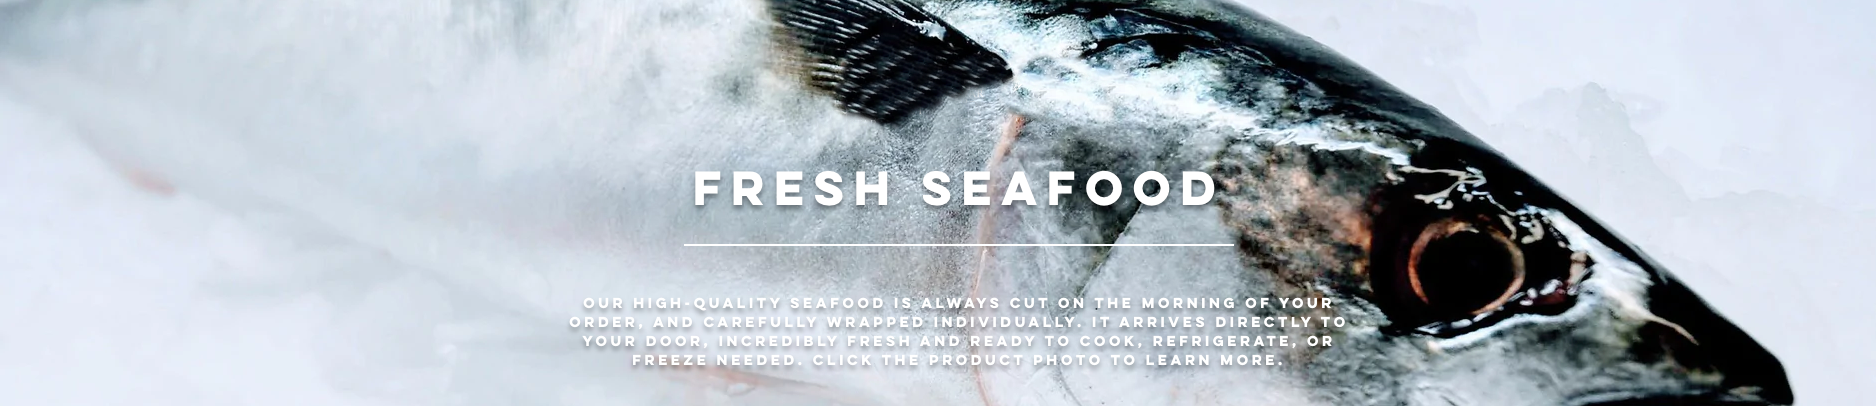
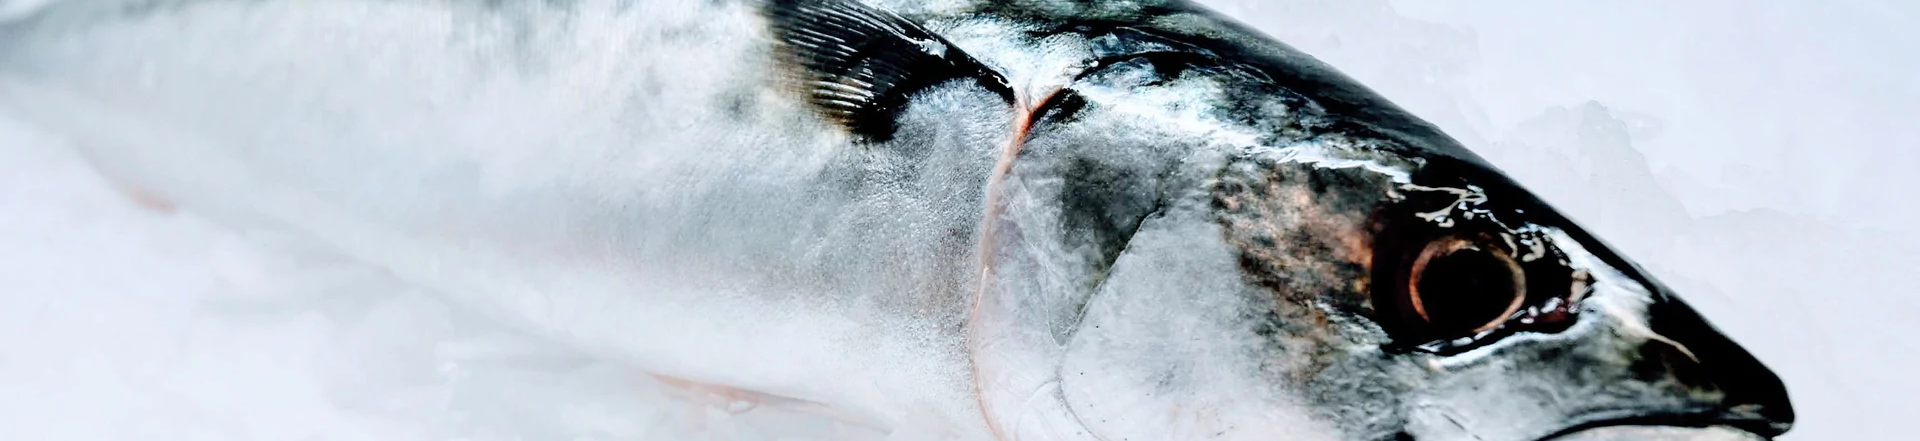
css and bug fixes

diff --git a/react-app/src/components/Products/Products.css b/react-app/src/components/Products/Products.css
@@ -3,9 +3,30 @@
 }
 
 .product-banner {
+    display: flex;
+    align-items: center;
+    justify-content: center;
     width: 100vw;
     height: 40vh;
 }
+
+.category-banner {
+    position: absolute;
+    color: white;
+    font-size: 50px;
+    letter-spacing: 3px;
+    text-shadow: 0px 4px 5px rgb(112, 110, 110);
+    padding-bottom: 10px;
+    border-bottom: 2px solid white;
+}
+
+/* .category-info{
+    display: flex;
+    position: absolute;
+    justify-content: flex-end;
+    align-items: flex-end;
+    z-index: 1;
+} */
 
 .banner-img {
     width: 100%;
@@ -24,13 +45,13 @@
     column-gap: 25px;
 }
 
-.sub-category-header{
+.sub-category-header {
     text-align: center;
     font-size: 30px;
     font-weight: bolder;
     letter-spacing: 5px;
     color: rgb(40, 96, 117);
-    text-shadow: (0 0 0 / 40%) 0px 4px 5px
+    text-shadow: 0px 4px 5px rgb(148, 144, 144);
 }
 
 .product-card {
@@ -50,7 +71,7 @@
     height: 100%;
 }
 
-.product-info{
+.product-info {
     display: flex;
     flex-direction: column;
     gap: 10px;
@@ -65,11 +86,11 @@
 
 .product-card-link {
     text-decoration: none;
-    color:rgb(54, 124, 152);
+    color: rgb(54, 124, 152);
 }
 
 .product-card-link:hover {
-    color:rgb(14, 56, 135);
+    color: rgb(14, 56, 135);
 }
 
 .info-divider {
@@ -80,25 +101,25 @@
     margin-top: -5px;
 }
 
-.inner-info{
+.inner-info {
     display: flex;
     justify-content: space-between;
     font-size: 12px;
     padding-bottom: 40px;
 }
 
-#product-price{
-    color:  rgb(75, 134, 158)
+#product-price {
+    color: rgb(75, 134, 158)
 }
 
-.product-page-buttons{
+.product-page-buttons {
     display: flex;
     justify-content: space-between;
     border: 1px black solid;
     height: 40px;
 }
 
-.counter-container{
+.counter-container {
     display: flex;
     justify-content: space-between;
     align-items: center;
@@ -106,23 +127,20 @@
     height: 100%;
 }
 
-.counter-container > button{
+.counter-container>button {
     background-color: white;
     border: none;
     width: 40px;
     font-size: 15px;
 }
 
-#minus{
-    color: rgb(53, 51, 51);
-}
 
-#plus{
+#plus {
     font-size: 25px;
     font-weight: 100;
 }
 
-.add-to-cart{
+.add-to-cart {
     width: 50%;
     height: 100%;
     color: white;
@@ -131,6 +149,6 @@
     font-size: 15px;
 }
 
-.add-to-cart:hover{
+.add-to-cart:hover {
     background-color: rgb(79, 141, 163);
 }

diff --git a/react-app/src/components/Products/index.js b/react-app/src/components/Products/index.js
@@ -39,9 +39,13 @@ export default function Products() {
 
     return (
         <>
-            <div className='product-banner'>
+            <div>
                 {category === 'seafood' && (
-                    <img className='banner-img' src={seafood} alt='seafood' />
+                    <div className='product-banner'>
+                        <img className='banner-img' src={seafood} alt='seafood' />
+                        <h1 className='category-banner'>FRESH SEAFOOD</h1>
+                        {/* <h3 className='category-info'>Our high-quality seafood is always cut on the morning of your order, and carefully wrapped individually. It arrives directly to your door, incredibly fresh and ready to cook, refrigerate, or freeze needed. Click the product photo to learn more.</h3> */}
+                    </div>
                 )}
             </div>
             <div className='products-containter'>
@@ -57,7 +61,7 @@ export default function Products() {
                             <div className='product-info'>
                                 <span id='product-origin'>{product.origin}</span>
                                 <NavLink to={`/products/${product.id}`} exact={true} className='product-card-link'>{product.name} {product.description}</NavLink>
-                                <li className='info-divider'/>
+                                <li className='info-divider' />
                                 <div className='inner-info'>
                                     <span id='product-price'>$ {product.price}</span>
                                     <span>Stars: {product.avgStarRating} ({product.numReviews})</span>

diff --git a/react-app/src/components/CreateReviewModal/index.js b/react-app/src/components/CreateReviewModal/index.js
@@ -15,8 +15,8 @@ export default function CreateReviewModal({ productId }) {
         e.preventDefault();
         const newReview = { review, stars }
 
-        await dispatch(createReview(productId, newReview)).then(dispatch(getProductDetails(productId)))
-            .then(closeModal)
+        await dispatch(createReview(productId, newReview)).then(closeModal)
+        await dispatch(getProductDetails(productId))
             .catch(async (res) => {
                 const data = await res.json();
                 const validationErrors = [];

diff --git a/react-app/src/components/EditReviewModal/index.js b/react-app/src/components/EditReviewModal/index.js
@@ -15,8 +15,8 @@ export default function EditReviewModal({ productId }) {
         e.preventDefault();
         const newReview = { review, stars }
 
-        await dispatch(editReview(productId, newReview)).then(dispatch(getProductDetails(productId)))
-            .then(closeModal)
+        await dispatch(editReview(productId, newReview)).then(closeModal)
+        await dispatch(getProductDetails(productId))
             .catch(async (res) => {
                 const data = await res.json();
                 const validationErrors = [];

diff --git a/react-app/src/components/DeleteReviewModal/index.js b/react-app/src/components/DeleteReviewModal/index.js
@@ -11,9 +11,8 @@ export default function DeleteReviewModal({ reviews, user, productId }) {
 
 
     const deleteReviewHandler = async (review) => {
-        await dispatch(deleteReview(review))
-        await dispatch(getProductDetails(productId))
-        .then(closeModal);
+        await dispatch(deleteReview(review)).then(closeModal)
+        await dispatch(getProductDetails(productId));
     };
 
     return (

diff --git a/react-app/src/components/NavigationBar/NavigationBar.css b/react-app/src/components/NavigationBar/NavigationBar.css
@@ -23,6 +23,7 @@ button:hover {
     /* width: 100vw; */
     border-bottom: 1px solid rgb(209, 204, 204);
     background-color: white;
+    z-index: 10;
 }
 
 .nav-link {

diff --git a/app/seeds/categories.py b/app/seeds/categories.py
@@ -1,4 +1,4 @@
-from app.models import db, Category, environment, SCHEMA
+from app.models import db, Category, Product, environment, SCHEMA
 
 
 def seed_categories():
@@ -33,6 +33,17 @@ def seed_categories():
     categories = [finfish, oysters, shellfish, caviar, poultry, beef, lamb, pork, game, fruit, vegtables, mushrooms, seaweed, milk, butter, cheese, boxes, comal, cochon, pizza, pies, flour, crackers, asian, coffee, grain, honey]
     [db.session.add(category) for category in categories]
     db.session.commit()
+
+    # big_glory = Product(name='Big Glory Bay King Salmon', description='(6oz) - 2 ea', origin='New Zealand', price=20.95, category_id=finfish.id)
+    # sea_bass = Product(name='Black Sea Bass', description='~1.5lb', origin='Massachusetts', price=26.95, category_id=finfish.id)
+    # halibut = Product(name='Halibut Fillet', description='Skin Off(6oz) - 2 ea', origin='Normway', price=29.95, category_id=finfish.id)
+    # kampachi = Product(name='Kampachi Fillet', description='1lb', origin='Panama', price=34.95, category_id=finfish.id)
+    # turbot = Product(name='Turbot', description='1.5-2lb', origin='Spain', price=39.95, category_id=finfish.id)
+    # stripe_bass = Product(name='True Striped Bass Fillet', description='(6oz) - 2ea', origin='Baja California', price=19.95, category_id=finfish.id)
+
+    # finfish_products = [big_glory, sea_bass, halibut, kampachi, turbot, stripe_bass]
+    # [db.session.add(product) for product in finfish_products]
+    # db.session.commit()
 
 
 def undo_categories():

diff --git a/app/models/models.py b/app/models/models.py
@@ -135,7 +135,8 @@ class Product(db.Model):
             'avgStarRating': self.avg_star_rating,
             'numReviews': self.num_reviews,
             'categoryId': self.category_id,
-            'productImages': [product_images.to_dict() for product_images in self.product_images]
+            'productImages': [product_images.to_dict() for product_images in self.product_images],
+            # 'category': [category.to_dict() for category in self.category]
         }
 
 

diff --git a/app/api/reviews_routes.py b/app/api/reviews_routes.py
@@ -75,7 +75,7 @@ def update_review(id):
         reviews = Review.query.filter(Review.product_id == id).all()
         review_ratings = [int(reviews.stars) for reviews in reviews]
         total_ratings = sum(review_ratings)
-        product.num_reviews += 1
+        # product.num_reviews += 1
         product.avg_star_rating = total_ratings / product.num_reviews
         db.session.commit()
         return current_review.to_dict(), 201
